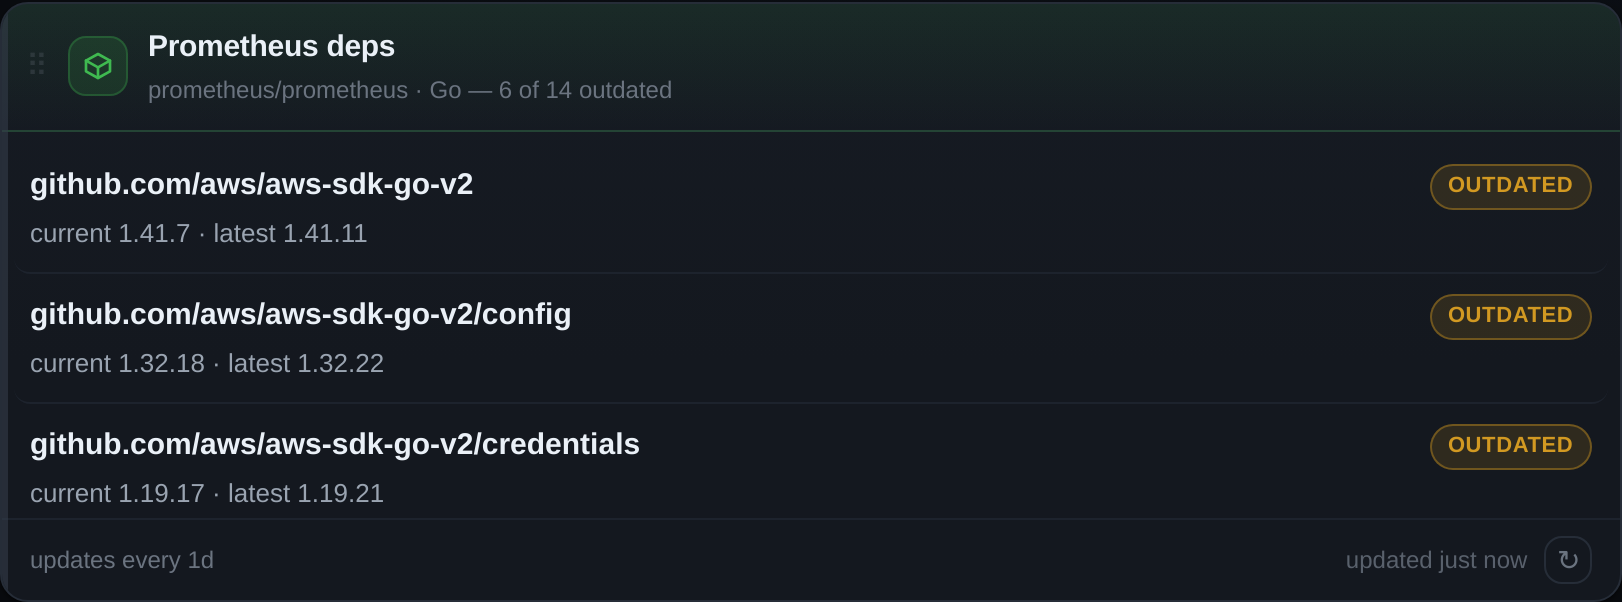
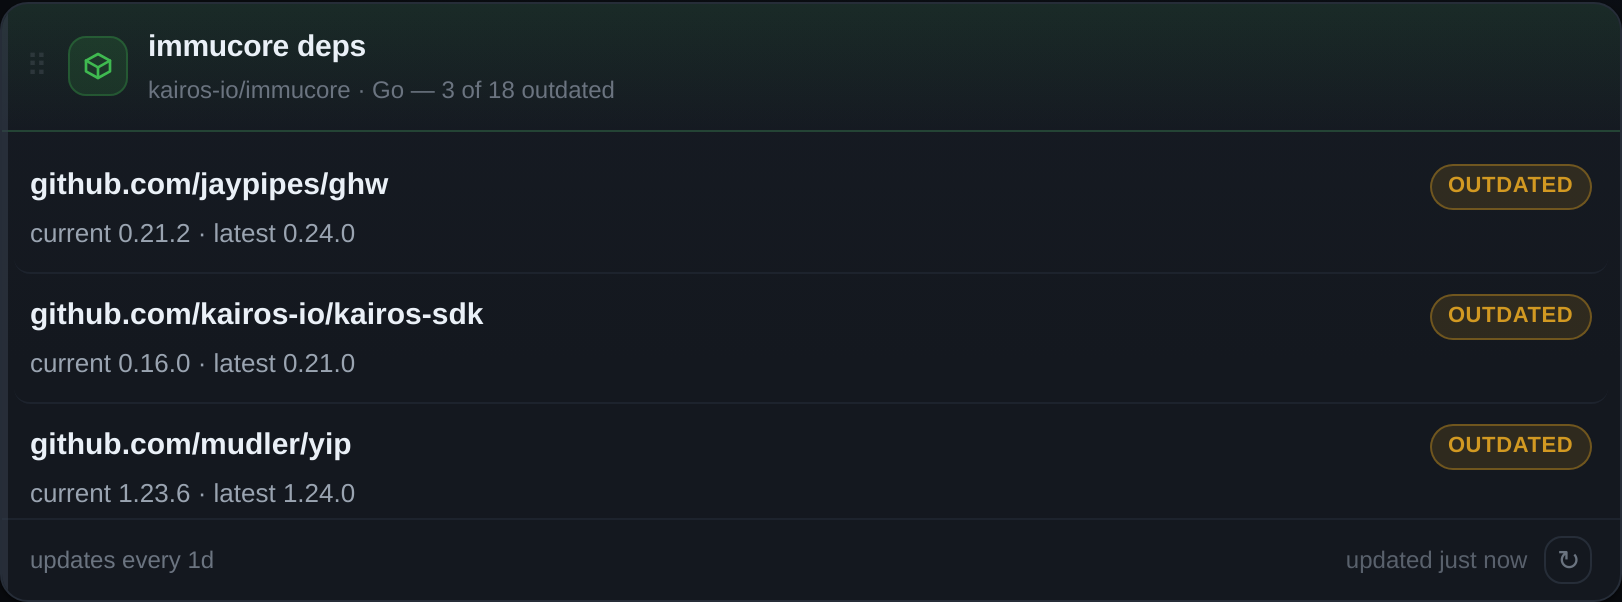
fix: dependency-freshness numeric version compare (ahead != behind)
Compare versions numerically (major.minor.patch, ignoring +incompatible /
pre-release suffixes): a dependency at or ahead of the proxy's latest is "up to
date", not "major behind". Fixes e.g. immucore's avast/retry-go
v3.0.0+incompatible vs the proxy's v2.7.0.

Also: 0.4.0 changelog and an immucore dependency-freshness screenshot.

diff --git a/internal/plugins/depfreshness/depfreshness.go b/internal/plugins/depfreshness/depfreshness.go
@@ -266,33 +266,66 @@ const (
 	statusMajor
 )
 
-// versionStatus compares two normalized versions: equal -> current, differing
-// major -> major, otherwise minor/patch behind.
+// versionStatus compares two normalized versions numerically:
+//   - current at or ahead of latest -> current (e.g. a vX+incompatible module
+//     whose proxy @latest is an older base-path tag is NOT "behind");
+//   - behind by a major -> major;
+//   - behind within the same major -> minor/patch.
+//
+// When either side can't be parsed it falls back to string equality.
 func versionStatus(cur, lat string) int {
 	if cur == lat || lat == "" {
 		return statusCurrent
 	}
-	cm, co := majorOf(cur)
-	lm, lo := majorOf(lat)
-	if co && lo && cm != lm {
+	pc, ok1 := parseSemver(cur)
+	pl, ok2 := parseSemver(lat)
+	if !ok1 || !ok2 {
+		return statusMinor // differing strings, can't tell — assume slightly behind
+	}
+	if cmpSemver(pc, pl) >= 0 {
+		return statusCurrent // equal or ahead
+	}
+	if pc[0] < pl[0] {
 		return statusMajor
 	}
 	return statusMinor
 }
 
-func majorOf(v string) (int, bool) {
-	if v == "" {
-		return 0, false
+// parseSemver extracts up to major.minor.patch from a version, ignoring any
+// pre-release / build / +incompatible suffix. ok is false if no leading number.
+func parseSemver(v string) ([3]int, bool) {
+	core := v
+	if i := strings.IndexAny(core, "+-"); i >= 0 {
+		core = core[:i]
 	}
-	part := v
-	if i := strings.IndexByte(v, '.'); i >= 0 {
-		part = v[:i]
+	var out [3]int
+	parts := strings.Split(core, ".")
+	got := false
+	for i := 0; i < len(parts) && i < 3; i++ {
+		n, err := strconv.Atoi(strings.TrimSpace(parts[i]))
+		if err != nil {
+			if i == 0 {
+				return out, false
+			}
+			break
+		}
+		out[i] = n
+		got = true
 	}
-	n, err := strconv.Atoi(part)
-	if err != nil {
-		return 0, false
+	return out, got
+}
+
+// cmpSemver returns -1, 0 or 1 comparing two parsed [major,minor,patch].
+func cmpSemver(a, b [3]int) int {
+	for i := range 3 {
+		if a[i] < b[i] {
+			return -1
+		}
+		if a[i] > b[i] {
+			return 1
+		}
 	}
-	return n, true
+	return 0
 }
 
 // normVersion strips a leading v and common range operators for comparison.

diff --git a/internal/plugins/depfreshness/depfreshness_test.go b/internal/plugins/depfreshness/depfreshness_test.go
@@ -208,9 +208,17 @@ func TestVersionStatus(t *testing.T) {
 		t.Error("equal should be current")
 	}
 	if versionStatus("1.2.3", "1.4.0") != statusMinor {
-		t.Error("same major should be minor")
+		t.Error("same major, behind should be minor")
 	}
 	if versionStatus("0.5.0", "1.0.0") != statusMajor {
-		t.Error("differing major should be major")
+		t.Error("behind by a major should be major")
+	}
+	// Ahead of (or equal to) the proxy's latest is NOT behind — e.g. a
+	// vX+incompatible module whose @latest is an older base-path tag.
+	if versionStatus("3.0.0+incompatible", "2.7.0+incompatible") != statusCurrent {
+		t.Error("ahead should be current, not behind")
+	}
+	if versionStatus("1.5.0", "1.2.0") != statusCurrent {
+		t.Error("ahead within major should be current")
 	}
 }

diff --git a/CHANGELOG.md b/CHANGELOG.md
@@ -4,6 +4,44 @@ All notable changes to plugdash are documented here. The format is based on
 [Keep a Changelog](https://keepachangelog.com/en/1.1.0/), and the project aims to
 follow [Semantic Versioning](https://semver.org/spec/v2.0.0.html).
 
+## [0.4.0] - 2026-06-03
+
+A big batch of new widgets, a new visualization, and per-widget sizing.
+
+### Added
+
+- **Nine new plugins:**
+  - `github-issue-watch` — watch specific issues/PRs: answered state, time since
+    last reply, and (for PRs) CI status.
+  - `github-prs` — open PR review queue across repos (review state + CI + draft).
+  - `github-review-requested` — open PRs awaiting your review (search API).
+  - `github-stale` — open issues/PRs with no activity for > N days (search API).
+  - `github-milestone` — milestone completion as a gauge.
+  - `github-workflow-health` — CI success rate + run-duration trend (timeseries).
+  - `dependency-freshness` — go.mod / package.json deps vs their latest releases.
+  - `endoflife` — end-of-life / support countdown via endoflife.date (no auth).
+  - `osv-vulns` — known vulnerabilities for a package version via OSV.dev (no auth).
+- **New `gauge` visualization** — a progress bar + percentage (used by
+  `github-milestone`).
+- **Widget sizes.** Plugins may implement the optional `plugin.Sizer` interface
+  to request a wider/taller tile (1–2 cells per axis; external plugins set
+  `width`/`height` in `describe`). The dashboard honors it via CSS grid spans;
+  a new **Settings → "Uniform widget sizes"** toggle forces a regular 1×1 grid.
+  `github-prs`, `github-review-requested` and `dependency-freshness` are 2×1;
+  `github-actions-status` is 1×2.
+- **List visualization extras:** per-item `badges` (tone-colored pills), `icon`
+  (owner avatars), and `collapsed` (rows tucked behind a "N more" expander).
+
+### Changed
+
+- `dependency-freshness` orders deps worst-first and collapses up-to-date ones;
+  when everything is current it shows an "All dependencies up to date" summary
+  instead of an empty list. Versions are compared numerically, so a dep that is
+  *ahead* of the proxy's latest (e.g. a `vX+incompatible` pin) is shown as up to
+  date rather than "major behind".
+- Shared the GitHub CI-badge aggregation (`plugins.AggregateCIBadge` /
+  `GHClient.CIBadge`) across the issue/PR widgets.
+
 ## [0.3.0] - 2026-06-03
 
 This release adds bulk tracker management to the Trackers view, building on the
@@ -100,5 +138,6 @@ declarative configuration, and makes the result cache survive restarts.
   client, no server calls) instead of freezing on "just now" until a full page
   reload; the exact fetch time is available on hover.
 
+[0.4.0]: https://github.com/Itxaka/plugdash/compare/v0.3.0...v0.4.0
 [0.3.0]: https://github.com/Itxaka/plugdash/compare/v0.2.0...v0.3.0
 [0.2.0]: https://github.com/Itxaka/plugdash/compare/v0.1.6...v0.2.0